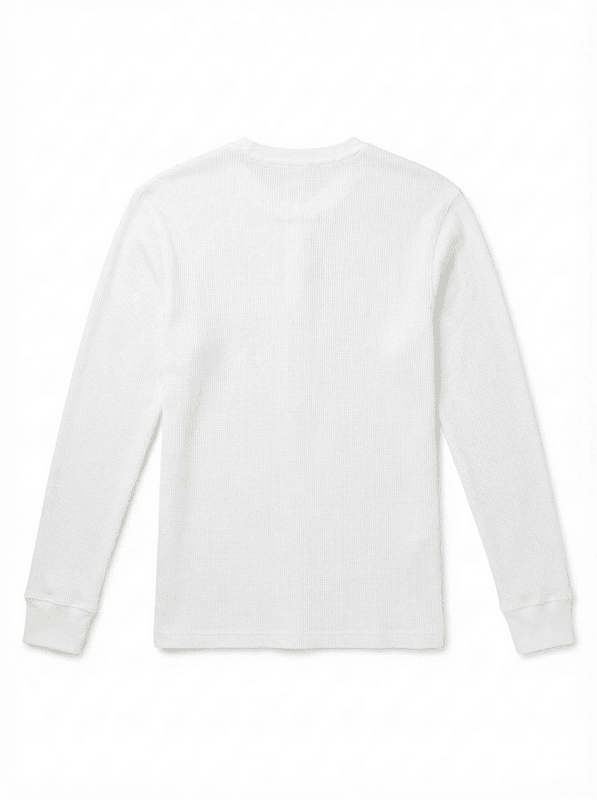
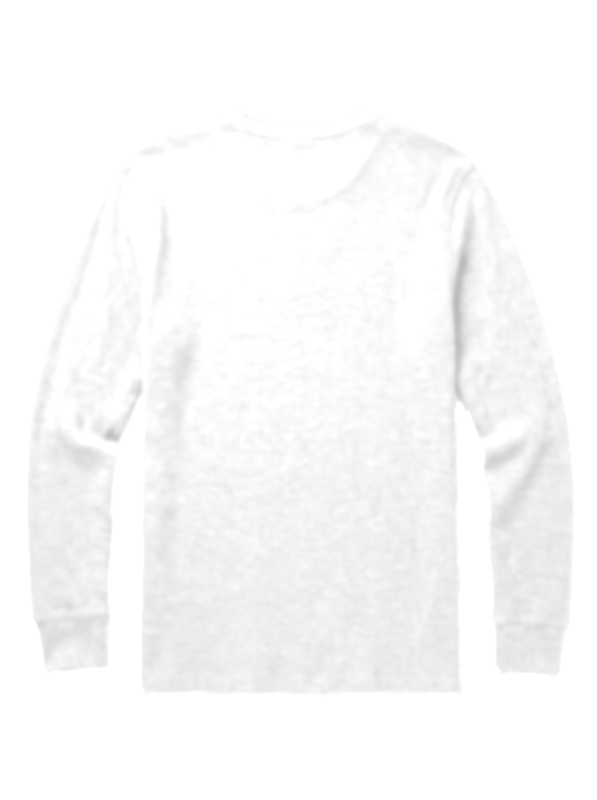
builder: white garments no longer wash out in the preview
The *-white-*.png shots were opaque white-on-white with most edges lost, so
they covered the grey canvas bg the builder already sets for white garments.
Regenerated all 12 from the grey shots (scripts/whiten_garments.py): cut out
to transparent, fabric lifted to white with folds kept. ?v=2 on the paths
because /images/* is cached 30 days immutable.

diff --git a/src/data/catalog.ts b/src/data/catalog.ts
@@ -32,7 +32,7 @@ export const garments = [
     sizes: ['YS', 'YM', 'YL', 'S', 'M', 'L', 'XL', 'XXL', 'XXXL'],
     supportsPlacement: true,
     images: {
-      white: { front: '/images/garments/tshirt-white-front.png', back: '/images/garments/tshirt-white-back.png' },
+      white: { front: '/images/garments/tshirt-white-front.png?v=2', back: '/images/garments/tshirt-white-back.png?v=2' },
       black: { front: '/images/garments/tshirt-black-front.png', back: '/images/garments/tshirt-black-back.png' },
       grey: { front: '/images/garments/tshirt-grey-front.png', back: '/images/garments/tshirt-grey-back.png' }
     }
@@ -45,7 +45,7 @@ export const garments = [
     sizes: ['S', 'M', 'L', 'XL', 'XXL', 'XXXL'],
     supportsPlacement: true,
     images: {
-      white: { front: '/images/garments/thermal-white-front.png', back: '/images/garments/thermal-white-back.png' },
+      white: { front: '/images/garments/thermal-white-front.png?v=2', back: '/images/garments/thermal-white-back.png?v=2' },
       black: { front: '/images/garments/thermal-black-front.png', back: '/images/garments/thermal-black-back.png' },
       grey: { front: '/images/garments/thermal-grey-front.png', back: '/images/garments/thermal-grey-back.png' }
     }
@@ -58,7 +58,7 @@ export const garments = [
     sizes: ['S', 'M', 'L', 'XL', 'XXL', 'XXXL'],
     supportsPlacement: true,
     images: {
-      white: { front: '/images/garments/hoodie-white-front.png', back: '/images/garments/hoodie-white-back.png' },
+      white: { front: '/images/garments/hoodie-white-front.png?v=2', back: '/images/garments/hoodie-white-back.png?v=2' },
       black: { front: '/images/garments/hoodie-black-front.png', back: '/images/garments/hoodie-black-back.png' },
       grey: { front: '/images/garments/hoodie-grey-front.png', back: '/images/garments/hoodie-grey-back.png' }
     }
@@ -71,7 +71,7 @@ export const garments = [
     sizes: ['S', 'M', 'L', 'XL', 'XXL', 'XXXL'],
     supportsPlacement: true,
     images: {
-      white: { front: '/images/garments/zipup-hoodie-white-front.png', back: '/images/garments/zipup-hoodie-white-back.png' },
+      white: { front: '/images/garments/zipup-hoodie-white-front.png?v=2', back: '/images/garments/zipup-hoodie-white-back.png?v=2' },
       black: { front: '/images/garments/zipup-hoodie-black-front.png', back: '/images/garments/zipup-hoodie-black-back.png' },
       grey: { front: '/images/garments/zipup-hoodie-grey-front.png', back: '/images/garments/zipup-hoodie-grey-back.png' }
     }
@@ -84,7 +84,7 @@ export const garments = [
     sizes: ['S', 'M', 'L', 'XL'],
     supportsPlacement: true,
     images: {
-      white: { front: '/images/garments/tank-mens-white-front.png', back: '/images/garments/tank-mens-white-back.png' },
+      white: { front: '/images/garments/tank-mens-white-front.png?v=2', back: '/images/garments/tank-mens-white-back.png?v=2' },
       black: { front: '/images/garments/tank-mens-black-front.png', back: '/images/garments/tank-mens-black-back.png' },
       grey: { front: '/images/garments/tank-mens-grey-front.png', back: '/images/garments/tank-mens-grey-back.png' }
     }
@@ -97,7 +97,7 @@ export const garments = [
     sizes: ['S', 'M', 'L', 'XL'],
     supportsPlacement: true,
     images: {
-      white: { front: '/images/garments/tank-womens-white-front.png', back: '/images/garments/tank-womens-white-back.png' },
+      white: { front: '/images/garments/tank-womens-white-front.png?v=2', back: '/images/garments/tank-womens-white-back.png?v=2' },
       black: { front: '/images/garments/tank-womens-black-front.png', back: '/images/garments/tank-womens-black-back.png' },
       grey: { front: '/images/garments/tank-womens-grey-front.png', back: '/images/garments/tank-womens-grey-back.png' },
       pink: { front: '/images/garments/tank-womens-pink-front.png', back: '/images/garments/tank-womens-pink-back.png' }

diff --git a/scripts/whiten_garments.py b/scripts/whiten_garments.py
@@ -1,0 +1,104 @@
+"""Build the WHITE builder garment images from the GREY ones.
+
+The original *-white-*.png files were opaque white-on-white with most of the
+garment's edges and folds lost, so they washed out in the /build preview.
+The grey shots keep full detail. For each garment/view this:
+  1. cuts the grey garment out (flood-fill the near-white backdrop from the border),
+  2. lifts the fabric to white while keeping the folds,
+  3. saves an RGBA PNG over *-white-*.png, so the builder's existing grey
+     canvas background (#d5d5d5 for white garments) shows around it.
+
+Usage:  python scripts/whiten_garments.py [--preview out.png]
+Originals are in git history if a result needs to be rolled back.
+"""
+import sys
+from pathlib import Path
+
+import numpy as np
+from PIL import Image, ImageDraw, ImageFilter
+
+DIR = Path(__file__).resolve().parent.parent / "public" / "images" / "garments"
+GARMENTS = ["tshirt", "thermal", "hoodie", "zipup-hoodie", "tank-mens", "tank-womens"]
+
+# Calibration knobs (tuned by eye on the /build preview; adjust if a garment looks off)
+BG_THRESHOLD = 235   # luminance above this, connected to the border = backdrop
+FABRIC_TOP = 247     # where the garment's median fabric tone lands (pure 255 loses folds)
+FOLD_GAIN = 1.0      # how strongly grey-shot shading carries into the white garment
+SMOOTH = 2.0         # blur radius (at 597px wide) that removes the grey heather speckle
+FLOOR = 120          # darkest a pixel may go (zippers, hood interior stay readable)
+EDGE_TRIM = 4        # px shaved off the cutout edge (bright-rim killer)
+
+
+def garment_mask(lum: np.ndarray) -> np.ndarray:
+    """True where the garment is: everything not reachable from the border through near-white."""
+    h, w = lum.shape
+    # .copy(): images made by fromarray are read-only; floodfill on them silently no-ops
+    # Sources are dithered: white specks on garment highlights let the fill tunnel
+    # in (zip-up hood) and dark specks in the backdrop block it (hoodie back).
+    # A median filter removes isolated specks both ways before thresholding.
+    denoised = np.asarray(Image.fromarray(lum.astype(np.uint8)).filter(ImageFilter.MedianFilter(5)))
+    light = Image.fromarray(np.where(denoised > BG_THRESHOLD, 255, 0).astype(np.uint8)).copy()
+    for x in range(0, w, 8):
+        for y in (0, h - 1):
+            if light.getpixel((x, y)) == 255:
+                ImageDraw.floodfill(light, (x, y), 128)
+    for y in range(0, h, 8):
+        for x in (0, w - 1):
+            if light.getpixel((x, y)) == 255:
+                ImageDraw.floodfill(light, (x, y), 128)
+    # Keep only the garment blob at the image centre: drops stray backdrop
+    # specks/vignette patches the border fill couldn't reach.
+    blob = Image.fromarray(np.where(np.asarray(light) != 128, 255, 0).astype(np.uint8)).copy()
+    centre = (w // 2, h // 2)
+    assert blob.getpixel(centre) == 255, "image centre is not on the garment"
+    ImageDraw.floodfill(blob, centre, 200)
+    return np.asarray(blob) == 200
+
+
+def whiten(src: Path) -> Image.Image:
+    rgb = Image.open(src).convert("RGB")
+    lum_img = rgb.convert("L")
+    lum = np.asarray(lum_img).astype(np.float32)
+    # Shave EDGE_TRIM px off the cut: the grey shot's outermost pixels are
+    # anti-aliased toward the white backdrop and would become a bright rim.
+    raw = Image.fromarray((garment_mask(lum) * 255).astype(np.uint8))
+    mask = np.asarray(raw.filter(ImageFilter.MinFilter(EDGE_TRIM * 2 + 1))) > 127
+
+    # Fill the backdrop with the fabric tone before blurring, or edge pixels blend
+    # with the white backdrop and come out as a bright rim.
+    median = float(np.median(lum[mask]))
+    filled = Image.fromarray(np.where(mask, lum, median).astype(np.uint8))
+    smooth = np.asarray(filled.filter(ImageFilter.GaussianBlur(SMOOTH * lum.shape[1] / 597))).astype(np.float32)  # blur scales with image size
+    out = np.clip(FABRIC_TOP - (median - smooth) * FOLD_GAIN, FLOOR, 255).astype(np.uint8)
+
+    alpha = Image.fromarray((mask * 255).astype(np.uint8)).filter(ImageFilter.GaussianBlur(0.8))
+
+    o = Image.fromarray(out)
+    return Image.merge("RGBA", (o, o, o, alpha))
+
+
+def main() -> None:
+    results = []
+    for g in GARMENTS:
+        for view in ("front", "back"):
+            src = DIR / f"{g}-grey-{view}.png"
+            dst = DIR / f"{g}-white-{view}.png"
+            img = whiten(src)
+            img.save(dst, optimize=True)
+            results.append(img)
+            print(f"{dst.name}: {img.size}")
+
+    if "--preview" in sys.argv:
+        # Contact sheet on the builder's white-garment background, for eyeballing.
+        cell = 300
+        sheet = Image.new("RGB", (cell * 6, cell * 2), (0xD5, 0xD5, 0xD5))
+        for i, img in enumerate(results):
+            t = img.copy()
+            t.thumbnail((cell - 10, cell - 10))
+            col, row = i // 2, i % 2
+            sheet.paste(t, (col * cell + (cell - t.width) // 2, row * cell + (cell - t.height) // 2), t)
+        sheet.save(sys.argv[sys.argv.index("--preview") + 1])
+
+
+if __name__ == "__main__":
+    main()
